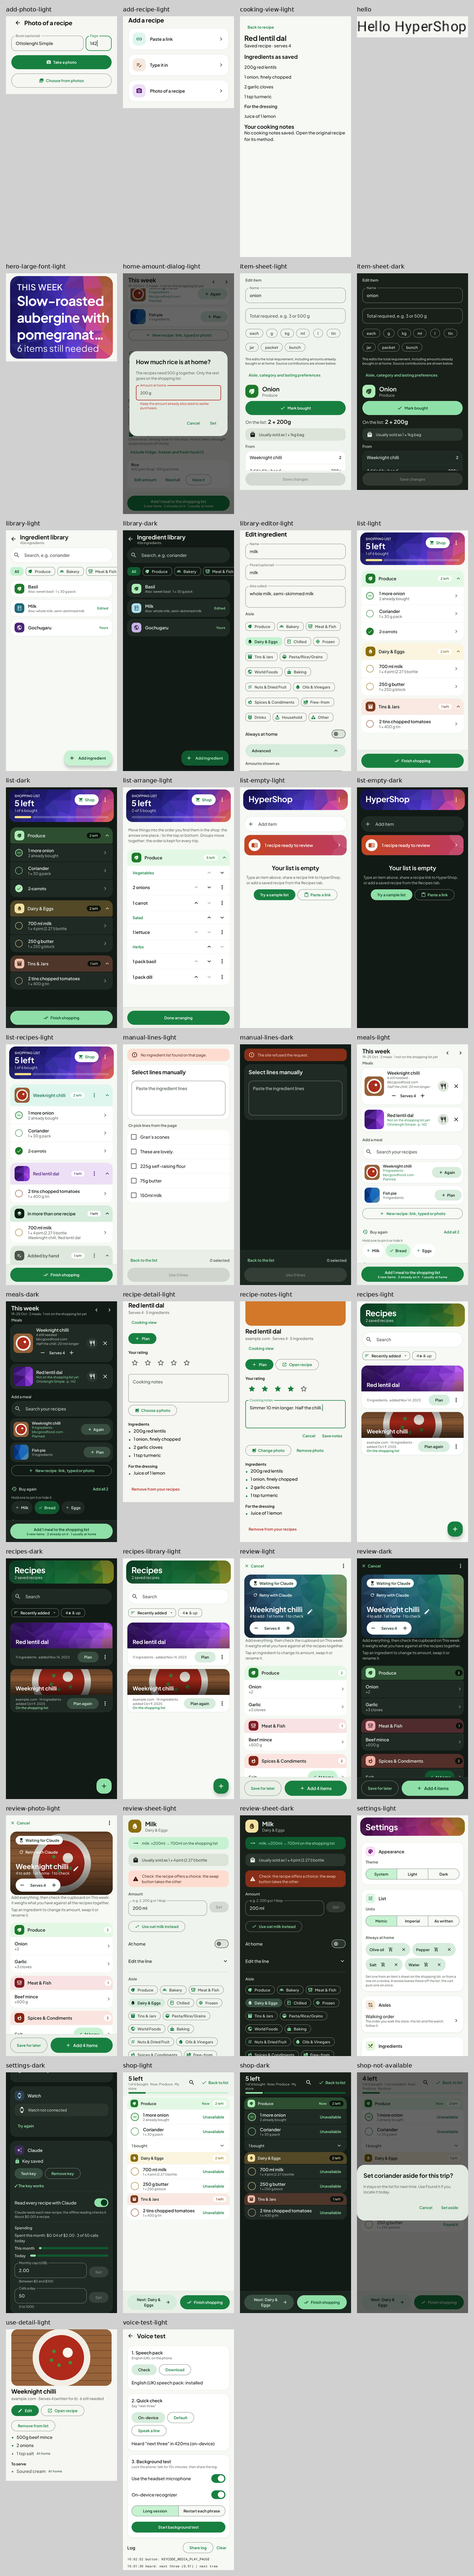
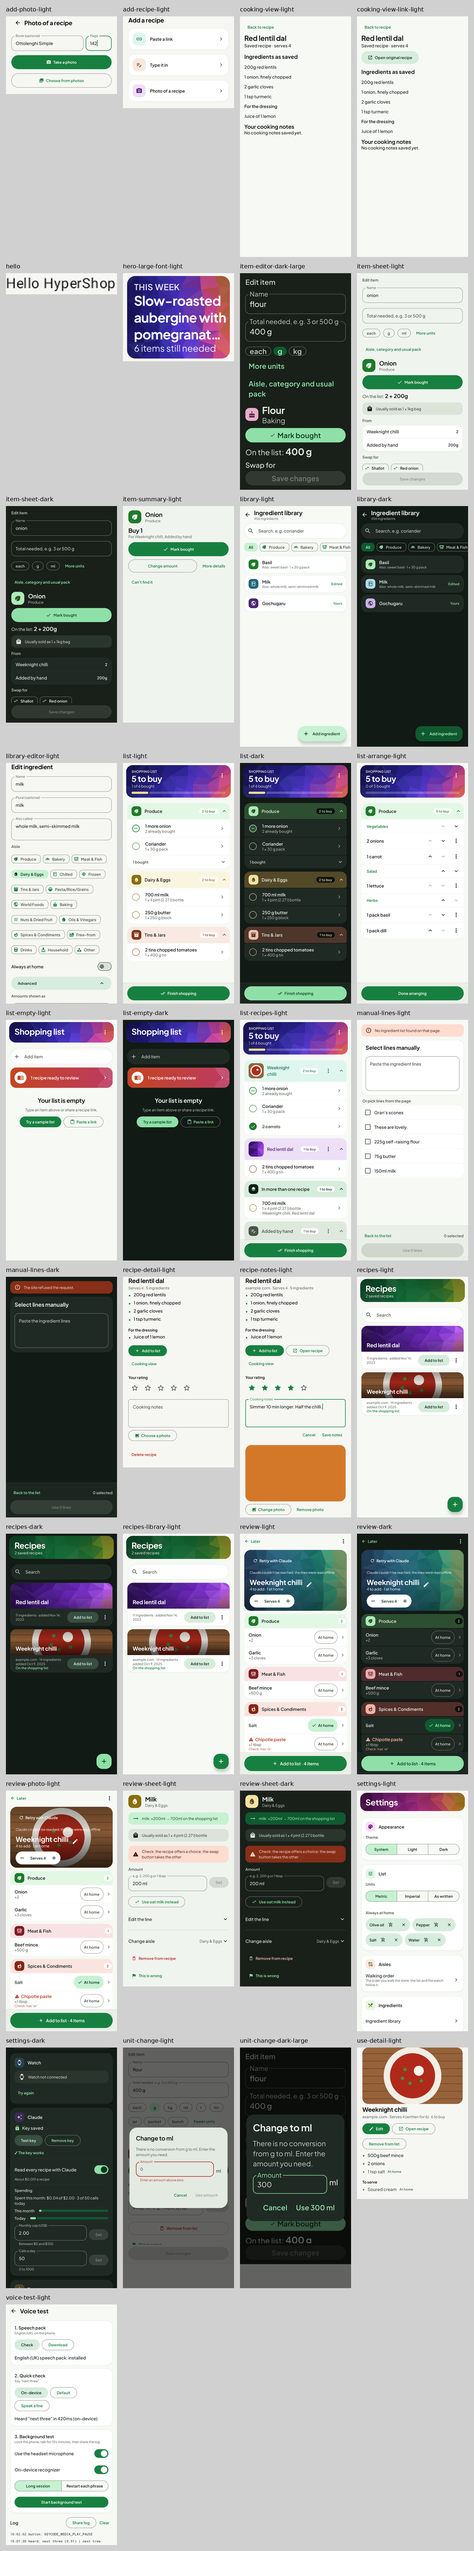
[Z.9] Verify and report
Every screenshot re-recorded and the contact sheet rebuilt. Journeys:
core job 6 taps / 2 screen changes and quick shopping 7 / 0, both
unchanged; meal-based 15 / 4, above Q.0's 9 / 2, with the taps that
cannot go explained in docs/reports/step-z.md. CLAUDE.md's data rules
name the new paths; KNOWN_ISSUES #46-48.

Claude-Session: https://claude.ai/code/session_01XHyUGxiCMSHv96zvVnb1yh

diff --git a/docs/reports/step-z.md b/docs/reports/step-z.md
@@ -1,0 +1,143 @@
+# Step Z — fewer concepts
+
+Branch `claude/step-z-fewer-concepts-rvynea`, from `b5a49da` (main after #92). Words and actions:
+`docs/design/simple-ux.md`. No Room schema change, no watch protocol change, no golden data, frozen-version or `:core`
+merge/tick change. Not merged or released.
+
+## Summary
+
+The owner found the app confusing; a review put that down to the number of concepts. Step Z removes concepts rather
+than rearranging them:
+
+- **One way to add a saved recipe: "Add to list".** Its ingredients go on the list at once (planned and linked in the
+  review's own `apply` transaction). "Add meal", "Make shopping list" and "Not on your list yet" are gone.
+- **One list screen.** No shopping mode, no Shopping view, no "Next aisle", no in-shop search. The list folds each
+  aisle's bought rows under "N bought", has "Can't find it" on the item's sheet and "Change store" in its menu when
+  there are two stores.
+- **Two tabs: Shopping list and Recipes.** The Meals tab, its week pager, Cooked toggle, meal notes and Add-meal sheet
+  are gone; servings and Remove from list are on a recipe's card in the list.
+- **"At home" in one place:** the review row's toggle (now on every row), with Settings' staples as its default. Check
+  food at home, the row sheet's switch and "Always at home", and the list's At home section are gone.
+- **A lighter review:** one button ("Add to list · N items"), "Save recipe only" in the menu, Claude's status only when
+  it failed or was skipped, no help paragraphs, the aisle chips behind "Change aisle".
+- **No instructions on screens**, **one word per idea** ("N to buy", "bought", "Remove from list", "Delete recipe"), and
+  **Recipes without clutter** (sort and filter from 10 recipes; the detail starts with the ingredients).
+
+## Removed
+
+| Removed | Where it was | What replaces it |
+|---|---|---|
+| "Add meal" (plan only) and "Not on your list yet" | Recipes, Meals | **Add to list** puts the ingredients on at once |
+| "Make shopping list" and its preview line; the Meals bottom-action states | Meals | nothing: adding is one step |
+| Shopping view (`ListMode`, `ShopScreen`), "Back to list", "Next: aisle", in-shop search | List | the one list, which ticks and finishes |
+| Meals tab: week pager, Repeat the week, Cooked toggle, meal notes, Add-meal sheet | Meals | Servings and Remove from list on a recipe's card in the list |
+| "Plan this week" / "See this week" on the empty list | List | — |
+| Check food at home (screen, route, chip, menu entry, Have some dialog) | List, Meals | the review row's At home toggle |
+| The row sheet's At home switch and "Always at home" | Review | the row's toggle; staples in Settings |
+| The list's "At home" section with "Need it" | List | Edit on the recipe's card reopens the review |
+| "Read by Claude" / "Read offline" / "Waiting for Claude" badges, offline explanation dialog | Review | Claude's note and Retry, only when it failed or was skipped |
+| "Save recipe" button beside Add | Review | "Save recipe only" in ⋮ |
+| Help paragraphs: the cupboard hint, "Tap an ingredient…", Arrange items' paragraph, Settings' staples, backup and Buy again paragraphs, the model note, the cooking view's scope, the item editor's "Edits the total…" | Review, List, Settings, Recipes | the controls' own labels |
+| The sort control and "4★ & up" below 10 saved recipes | Recipes | — |
+| Settings: `list_mode`, `review_sheet_opens` | DataStore | — (old values stay in the file, unread) |
+
+Files deleted: `ShopScreen.kt`, `MealsRoute.kt`, `MealsViewModel.kt`, `HomeCheckScreen.kt`, `ShopPrep.kt` and their
+tests (`ShopScreenTest`, `MealsScreenTest`, `MealsViewModelTest`), and the screenshots `shop-*`, `meals-*`,
+`home-check-light`, `home-amount-dialog-light`. Behaviour that still exists was moved, not dropped: the bought fold, the
+linger after a tick and Change store are tested in `ListScreenTest`; Can't find it in `ListViewModelTest`; Buy again in
+`BuyAgainSectionTest` and `BuyAgainViewModelTest`.
+
+Size, from `b5a49da` to the end of Step Z: the app's and `:data`'s production code lost 3,305 lines and gained 738
+(net −2,567); with tests, `android/` lost 4,747 and gained 1,313. Fifteen files were deleted (eight sources and tests,
+seven screenshots); four were added (`AddToList.kt`, `BuyAgain.kt` and Buy again's two tests).
+
+## Journeys, before and after
+
+Counted by `JourneyTest` through the real app shell (Robolectric): taps (clicks and keyboard actions), entries typed,
+scrolls, and screen changes (a new destination, or a dialog or sheet opening). Counts, not timings; no person took part.
+
+| Journey | Q.0 (93d99fa) | Before Z (b5a49da) | After Z |
+|---|---|---|---|
+| Core job: share a recipe link, accept the review, tick everything, finish | — | 6 · 0 · 0 · 2 | 6 · 0 · 0 · 2 |
+| Quick shopping: first run, milk and bread, tick both, finish | 7 · 2 · 0 · 0 | 7 · 2 · 0 · 0 | 7 · 2 · 0 · 0 |
+| Meal-based: three saved recipes, one served to 5, rice partly at home | 9 · 1 · 5 · 2 | 13 · 1 · 6 · 6 | 15 · 1 · 4 · 4 |
+
+(taps · typed · scrolls · screen changes)
+
+The core and quick journeys did not get longer. **The meal-based journey does not come in at Q.0's 9 taps and 2 screen
+changes.** Where the taps go:
+
+| Part | Taps | Screen changes |
+|---|---|---|
+| Recipes tab, Add to list on each of the three recipes, back to the list | 5 | 2 |
+| The chilli for 5: ⋮ › Group by recipe, the chilli card's ⋮ › Servings, +, Done | 6 | 1 (the dialog) |
+| 300 g of the rice at home: the rice row, Change amount, the amount field, Save | 4 | 1 (the item sheet) |
+
+Which taps cannot go without putting back what this step removed:
+
+- The two taps of **Group by recipe**: servings belong to a recipe, and the brief puts them on the recipe's card in the
+  list; in store order there is no card. Putting a stepper back on a screen of its own is the Meals tab again.
+- **Servings › Done**: a dialog, so that a stray tap does not rescale a recipe. An inline stepper in the menu would
+  save one tap and the dialog's screen change, at the cost of each + writing at once.
+- The **rice**'s four taps: "at home" is said once, on the review; a partial amount on the list is an edited amount.
+  The food-at-home screen did this in fewer taps per item but was a screen and a concept of its own, which Z.4 removed.
+
+Without the two optional corrections, putting three meals on the list is 5 taps and 2 screen changes, under Q.0's
+figure; the whole journey is longer than Q.0's because Q.0 did everything on one long screen. Whether this is easier to
+understand is for the owner to judge in use.
+
+Found by the core journey and **not fixed**: the review's "Added …" message (with Undo, 5 s) sits over the bottom of
+the list, including the Finish bar, after the review closes. The journey waits it out (not counted as a tap); a person
+can swipe it away. Lifting it above the Finish bar was tried and covered the last rows instead, so it was reverted.
+
+## Claims checked against the code
+
+- **Recipes' "Add meal" only planned the meal**: true (`Planner.plan`); the review's add went through `apply`.
+- **Shopping view and the list showed the same rows and both ticked and finished**: true; `ShopStart.request` only set
+  the active store and the mode.
+- **"I have some" in the review row sheet**: not so. The sheet had an "At home" switch and an "Always at home" button;
+  since Y.20 the row's own pill appeared only on rows already at home, so the sheet's switch was the only way to mark a
+  row. Applied the intent: the pill is on every row, and the sheet's switch and "Always at home" went.
+- **An at-home control in the item sheet**: not so; it showed "At home 0" in its breakdown only. That figure now shows
+  only for an amount recorded before.
+- **The list's own At home section** ("Need it") was a fifth place the brief did not list; it went too.
+
+## Data and the rules
+
+- Every write still goes through the repository; nothing before start-up is Ready (the new `addRecipeToList` waits
+  for it); Claude is called only while the review is in the foreground.
+- **Nothing undoes a purchase.** Undo of Add to list is `Planner.takeBack` → `unplan`, which removes the use only when
+  nothing of it is bought and otherwise withdraws the unbought shares; Remove from list is `removeFromList` (the same
+  rule); Servings is `setUseServings` (bought stays bought). `RecipesViewModelTest` ticks an item before Undo and checks
+  it stays.
+- Planned meals are still written for the current week (an import plans itself, an edit relinks, Add to list plans),
+  so backups and the plan invariants hold. They have no screen: meals planned earlier, past weeks and Cooked marks stay
+  in the database and in backups, unseen (KNOWN_ISSUES #46). No data was deleted.
+
+## Not done, and why
+
+- **The meal-based journey target** (above): not met; the remaining taps are explained rather than hidden.
+- **Unused `:data` functions** (`addWeekToList`, `previewWeek`, `repeatWeek`, `setCooked`, `HomeCheck`, …) were kept with
+  their tests: they guard the plan's data rules and backup tests use them. Deleting them is a follow-up (KNOWN_ISSUES #46).
+- **Unused columns** (`PlannedMeal.cookedAt`, `RecipeNote.timesCooked`, `ListItem.onHand`) stay: no schema change was
+  allowed.
+- **The snackbar over the Finish bar** (above).
+
+## What could not be checked here
+
+There was no device, emulator, launcher, TalkBack or Forerunner 245 in this container. Screenshots are Robolectric
+renders. The emulator scenarios (`WeeklyShopScenariosTest`, `DeviceScenariosTest`, `PerformanceProbeTest`) were
+rewritten for the new flow and only compiled; they run in CI. The watch app was not touched; its compiles were skipped
+here (`HYPERSHOP_SKIP_WATCH=1`, as the connectiq workflow builds it) while its argument-limit check ran.
+
+## Verification
+
+`tools/verify.sh` passed before every commit (Z.0 to Z.9), with `HYPERSHOP_SKIP_WATCH=1`: ktlint; every JVM unit test
+(core, extract, claude, data, app); debug, emulator-test and unsigned release APKs; the release-promotion guards;
+catalogue; merged manifests; secrets scan; golden checksum; protocol parity; the sync model checker; the watch's
+argument limits. Each step was committed from a separate checkout so that it was gated on its own. Every Roborazzi
+screenshot was re-recorded by the last run (37, each made by a test; none left over from a removed screen) and
+`tools/contact-sheet` rebuilt `docs/contact-sheet.png`.
+
+This container's Maven Central answered bursts with HTTP 429. Builds ran with Gradle's own retry settings raised on
+the command line (`-Dorg.gradle.internal.repository.max.retries=15`, `initial.backoff=3000`), nothing committed.

diff --git a/PROGRESS.md b/PROGRESS.md
@@ -368,4 +368,4 @@ Feedback, again: "confusing and complicated". A review found the cause is the nu
 - [x] Z.6 No instructions on screens. Removed: Arrange items' paragraph (the arrows, "⋮ Move to top/bottom" and "Done arranging" say it), Settings' staples paragraph (which also pointed at controls Z.4 removed), its two backup paragraphs, the Buy again history note and the model note; the Claude switch keeps only "About $0.001 a recipe." when on; Walking order's second-store paragraph (it described "Shop" asking, which Z.2 removed); the cooking view's "Shows the saved ingredients…" line (Open original recipe is there when there is one); the item editor's "Edits the total needed…" (the field is labelled "Total needed") and the usual-pack note; the rename dialog says "If it is already on the list, the two become one row."; Buy again's empty sheet says "Nothing to buy again yet." Kept: confirmations before a destructive step (restore, clear history), errors, and the start-up recovery screen — check: `ListScreenTest.arranging…`, `RecipesScreenTest.cookingViewOffersTheOriginalOnlyWithALink`, `SettingsScreenTest`
 - [x] Z.7 One word per idea, written into `docs/design/simple-ux.md` (rewritten for Step Z: structure, the words, what each action changes) and applied to strings, content descriptions and tests: the count of unbought items is always "N to buy" (aisle and recipe pills, a recipe's progress, Finish's message "Shopping finished: 2 bought · 1 to buy"; a row's spoken state "To buy"); done is "bought" ("Bought ✓", "All bought"); taking a recipe's items off is "Remove from list" (its message "Removed … from the list"); deleting a saved recipe is "Delete recipe" ("Deleted …"). Meal rows with a bare ✕ went with the Meals tab (Z.3); the recipe card's Remove from list is labelled. On the review, lines not yet on the list stay "N to add", as Z.5 asks; they are "to buy" once on the list — check: `ListScreenTest`, `ListViewModelTest`, `RecipesViewModelTest`, `ReleaseCScenariosTest`, emulator-test compile
 - [x] Z.8 Recipes without clutter. The sort control and the "4★ & up" filter show only from 10 saved recipes (`SORT_FROM`; `RecipesUi.savedCount` counts every saved recipe whatever the search shows), or while the filter is on so it can be turned off. The recipe's sheet starts with its name and the ingredients, then Add to list (with Open recipe and Cooking view), then your rating, notes and photo, and Delete recipe last. Rating, notes and photo still belong to the library entry (`RecipeNote` by `LibraryRecipe.key`) — check: `RecipesScreenTest.sortAndTheHighlyRatedChipWaitForTenRecipes…`, `RecipesScreenTest`, `RecipeNotesViewModelTest`, `DiscoveryTest`
-- [ ] Z.9 Verify and report
+- [x] Z.9 Verify and report. Every Roborazzi screenshot re-recorded (37, each made by a test; the `shop-*`, `meals-*` and home-check ones deleted with their screens) and `tools/contact-sheet` rebuilt. Journeys after Z (`JourneyTest`): core job 6 taps, 0 typed, 0 scrolls, 2 screen changes (unchanged); quick shopping 7, 2, 0, 0 (unchanged); meal-based 15, 1, 4, 4 — not at Q.0's 9 taps and 2 screen changes: Servings on a recipe's card costs 6 taps (Group by recipe, the card's menu, the dialog) and a partial amount at home 4 (the item's sheet); adding the three recipes is 5 taps and 2 screen changes. The report says which taps cannot go without putting a removed concept back. CLAUDE.md's data rules now name Add to list, `Planner.takeBack` and Remove from list (no rule weakened); KNOWN_ISSUES #46–48 (data with no screen, unused `:data` functions kept, the meal journey, nothing run on a device). The "Added" snackbar over the Finish bar (found in Z.0) is recorded, not fixed: lifting it covered the last rows. Report: `docs/reports/step-z.md` — check: `tools/verify.sh`

diff --git a/docs/KNOWN_ISSUES.md b/docs/KNOWN_ISSUES.md
@@ -48,3 +48,6 @@
 | 43 | Import | Cup/spoon ratios that vary by locale and unsupported mass/volume compound amounts remain flagged rather than silently dropping the extra or guessing density. Users must review the original text and correct these interpretations. | explicit review required |
 | 44 | Import | The new evaluation exposes unflagged semantic loss for egg + egg yolk and a heaped-spoon qualifier. Catalogue-ID/base-quantity scoring alone misses these distinctions; the report explicitly documents them. No live assistance results are available to claim they are repaired downstream. | open (consequential interpretation review) |
 | 45 | UI | Editing a partial home amount exposed a repeated dialog text/layout pass in native JVM verification. The dialog now has explicit window width with side margins and a concise field label; the real This week entry flow tests invalid text, visible backend rejection, the retained draft and a successful retry. Native rendering and automatic idling stay enabled. | fixed (November final verification; real IME acceptance pending) |
+| 46 | Data | Step Z removed the Meals tab, Cooked it and the food-at-home check without a schema change, so some stored data has no screen now: `PlannedMeal` rows (still written for this week by every add and relinked by an edit, so backups and the plan invariants hold; earlier weeks and meals left planned but not on the list are kept, unseen), `PlannedMeal.cookedAt` and `RecipeNote.timesCooked` (no longer set; existing counts still show on a recipe's card), and `ListItem.onHand` (set only by the old check; still honoured in what is to buy and shown in the item's breakdown). Nothing was deleted. In `:data`, `Planner.addWeekToList`, `previewWeek`, `undoAddWeek`, `repeatWeek`, `previousPlannedWeek`, `unplanNew`, `setCooked`, `HomeCheck` and `ListRepository.needAfterAll` have no caller in the app; they and their tests were kept because they guard the plan's data rules and the backup's tests use them. The DataStore keys `list_mode` and `review_sheet_opens` are no longer read; old values stay in the file, harmless. | open (cleanup with a later schema change) |
+| 47 | UI | Step Z's meal-based journey (three saved recipes, one served to 5, rice partly at home) is 15 taps and 4 screen changes against Q.0's 9 and 2: Servings sits on a recipe's card in the list's Group by recipe view (6 taps with the dialog) and a partial amount at home is a changed amount on the item's sheet (4 taps). The adding itself is 5 taps and 2 screen changes. See docs/reports/step-z.md. | open (needs use to judge) |
+| 48 | Hardware | Nothing in Step Z was run on a phone, an emulator, TalkBack or a Forerunner 245: the emulator scenarios were rewritten for the new flow and only compiled here. | open (needs CI's emulator and you) |

diff --git a/CLAUDE.md b/CLAUDE.md
@@ -56,15 +56,16 @@ and retry; `verify.sh` already does.
   holds its inbox, and shares and import workers `awaitReady()`. New
   background entry points must wait the same way.
 - **A planned meal is not a recipe use.** `PlannedMeal` is the plan; its
-  shopping is the use it is linked to (`useId`). Only `Planner` puts a meal on
-  the list, through the review's own `apply`, linking it in the same
-  transaction. A finished trip leaves the plan alone. An import plans itself
-  for this week, and an edit relinks: keep `apply`'s `plan` and `replacing`
-  paths doing that.
-- **Nothing in Release B undoes a purchase.** Removing a meal, Undo of a week's
-  add, Buy again's Undo and "Have it" take back only unbought shares
-  (`ShoppingList.withdraw`). Never call `removeUse` on a use with a covered
-  contribution to "remove a meal".
+  shopping is the use it is linked to (`useId`). Since Step Z the plan has no
+  screen of its own, but it is still written: "Add to list" on a saved recipe
+  goes through `Planner.addToList`, the review's own `apply` with `plan`,
+  planning and linking it in the same transaction. A finished trip leaves the
+  plan alone. An import plans itself for this week, and an edit relinks: keep
+  `apply`'s `plan` and `replacing` paths doing that.
+- **Nothing undoes a purchase.** Remove from list, Undo of Add to list
+  (`Planner.takeBack`), a recipe's servings and Buy again's Undo take back only
+  unbought shares (`ShoppingList.withdraw`). Never call `removeUse` on a use
+  with a covered contribution to "remove a recipe".
 - **A review line is known by its occurrence, never its text.** A recipe can say
   "100 g sugar" twice. Corrections and removals are filed by `LineOrigin`
   (source text + occurrence) and laid over Claude by `LineIdentity.reconcile`,
